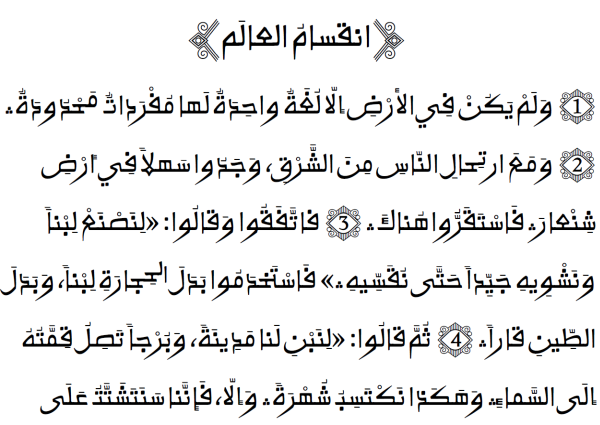
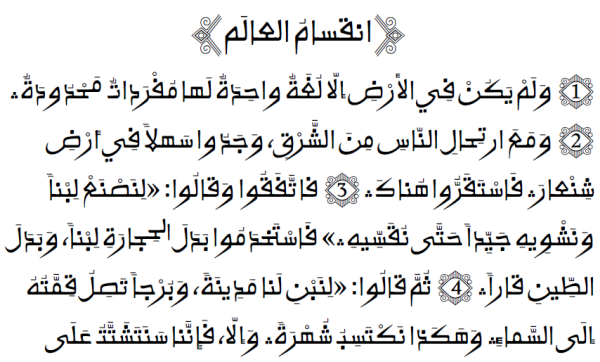
[ABS-2761] Update line spacing. Update documentation.

diff --git a/documentation/source/announcement.md b/documentation/source/announcement.md
@@ -5,15 +5,17 @@ fontversion: 2.000
 
 #### Changes
 
-2022-04-27 (WSTech team) Ruwudu Version 1.301 (production release)
+2022-04-27 (WSTech team) Ruwudu Version 2.000 (production release)
 
 - Split Alkalami Light font v 1.300 into a new typeface called Ruwudu. Version history is available in the Alkalami font package.
 - Removed non Unicode compliant solutions
 - Removed unnecessary swash glyphs
 - Added above nukta to isolate and final U+0767
+- Reduced line spacing
   
 Both desktop and web fonts are provided in a single, all-platforms package on the [Download Page](https://software.sil.org/ruwudu#download).
 
 #### Known issues
 
-xxx
+Because we reduced the line spacing for this font, there is the possibility of interline collisions which might require manual intervention. This would be most likely to occur in languages which use multiple jeem-like characters sequentially in one word. In this case, turning off the stacking behaviour of jeem-like characters (ss07) for one word could fix the interline collision.
+

diff --git a/documentation/source/charset.md b/documentation/source/charset.md
@@ -3,7 +3,7 @@ title: Ruwudu - Character Set Support
 fontversion: 2.000
 ---
 
-The Ruwudu font supports the characters known to be used by languages written with the Kano style of Arabic script, but may not have the characters needed for other languages.
+This font supports the characters known to be used by languages written in this style of Arabic script, but may not have the characters needed for other languages.
 
 [Arabic (U+0600..U+06FF)](http://www.unicode.org/charts/PDF/U0600.pdf) was added to Unicode 1.0. [Arabic Supplement (U+0750..U+077F)](http://www.unicode.org/charts/PDF/U0750.pdf) was added to Unicode 4.1, [Arabic Extended-A (U+08A0..U+08FF)](http://www.unicode.org/charts/PDF/U08A0.pdf) was added to Unicode 6.1, and [Arabic Extended-B (U+0870..U+089F)](http://www.unicode.org/charts/PDF/U0870.pdf) was added to Unicode 14.0. There are still some Arabic script characters being added to Unicode, so it is possible that not all languages using the Arabic script are fully represented in Unicode. 
 

diff --git a/documentation/source/about.md b/documentation/source/about.md
@@ -5,7 +5,7 @@ fontversion: 2.000
 
 ## About this project
 
-Ruwudu is the Manga word for "writing". This style of writing is used by the Manga people in Niger, West Africa. This font was initially designed as a light version of Alkalami. The font has been split into a new typeface, but it pairs well with [Alkalami](https://software.sil.org/alkalami/).
+Ruwudu is the Manga word for "writing". This style of writing is used by the Manga people in Niger, West Africa. This font was initially designed as a lighter or companion version of [Alkalami Regular](https://software.sil.org/alkalami/). The design is still very much influenced by the Rubutun Kano style, but was based on samples of footnotes from the market edition manuscripts. These were made with a monoline tool, likely a ball point pen or something similar. The extreme swashes and tails of Alkalami are replaced by more classic and reserved shapes. 
 
 For more information on the visual characteristics of the font see [Design](design.md).
 

diff --git a/README.md b/README.md
@@ -1,6 +1,6 @@
 # Ruwudu
 
-Ruwudu is the Manga word for "writing". This style of writing is used by the Manga people in Niger, West Africa. This font was initially designed as a light version of Alkalami. The font has been split into a new typeface, but it pairs well with Alkalami.
+Ruwudu is the Manga word for "writing". This style of writing is used by the Manga people in Niger, West Africa. This font was initially designed as a lighter or companion version of Alkalami Regular. The design is still very much influenced by the Rubutun Kano style, but was based on samples of footnotes from the market edition manuscripts. These were made with a monoline tool, likely a ball point pen or something similar. The extreme swashes and tails of Alkalami are replaced by more classic and reserved shapes. 
 
 ## Project status [![Build Status](http://build.palaso.org/app/rest/builds/buildType:Ruwudu/statusIcon)](http://build.palaso.org/viewType.html?buildTypeId=Fonts_Ruwudu&guest=1)
 

diff --git a/documentation/source/design.md b/documentation/source/design.md
@@ -3,7 +3,7 @@ title: Ruwudu - Design
 fontversion: 2.000
 ---
 
-Ruwudu is the Manga word for "writing". This style of writing is used by the Manga people in Niger, West Africa. 
+Ruwudu is the Manga word for "writing". This style of writing is used by the Manga people in Niger, West Africa. This font was initially designed as a lighter or companion version of [Alkalami Regular](https://software.sil.org/alkalami/). The design is still very much influenced by the Rubutun Kano style, but was based on samples of footnotes from the market edition manuscripts. These were made with a monoline tool, likely a ball point pen or something similar. The extreme swashes and tails of Alkalami are replaced by more classic and reserved shapes. 
 
 One font from this typeface family are included in the *Ruwudu* release:
 

diff --git a/documentation/source/history.md b/documentation/source/history.md
@@ -9,4 +9,4 @@ fontversion: 2.000
 - Removed non Unicode compliant solutions
 - Removed unnecessary swash glyphs
 - Added above nukta to isolate and final U+0767
-
+- Reduced line spacing
